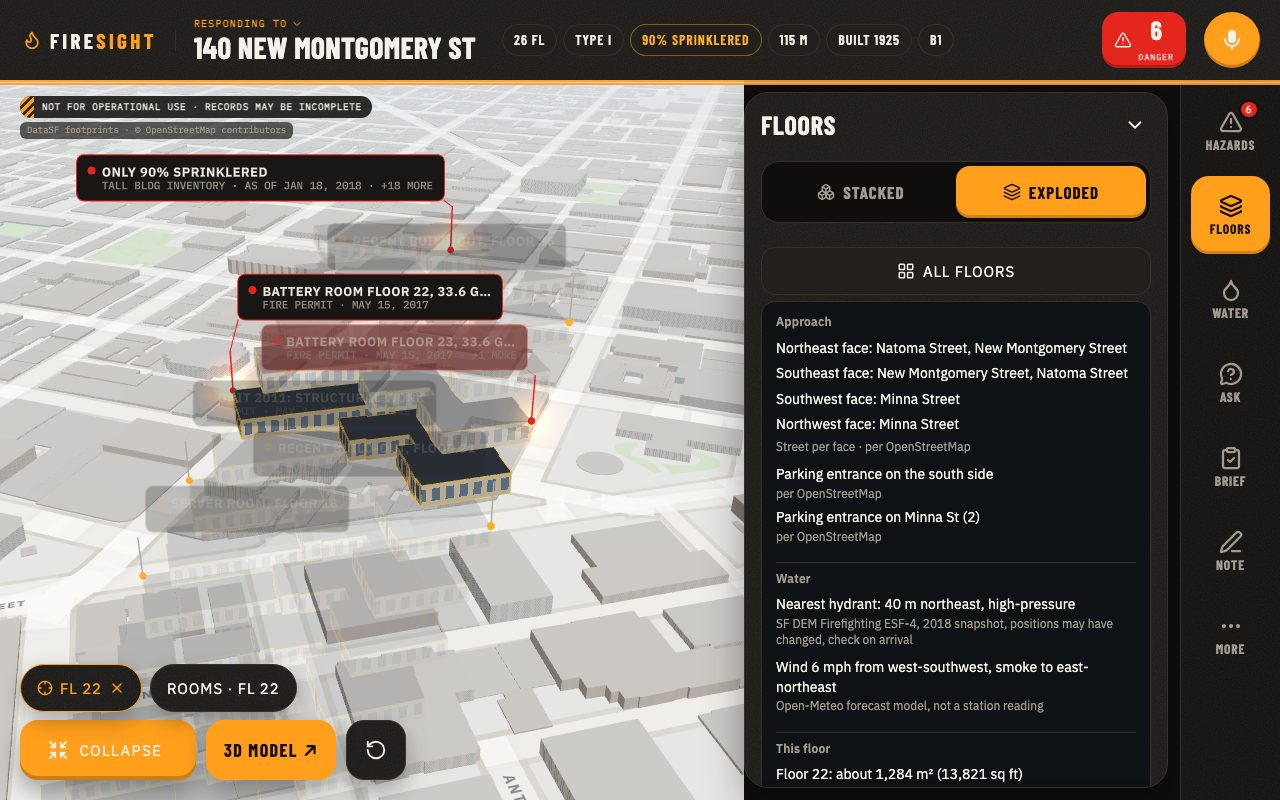
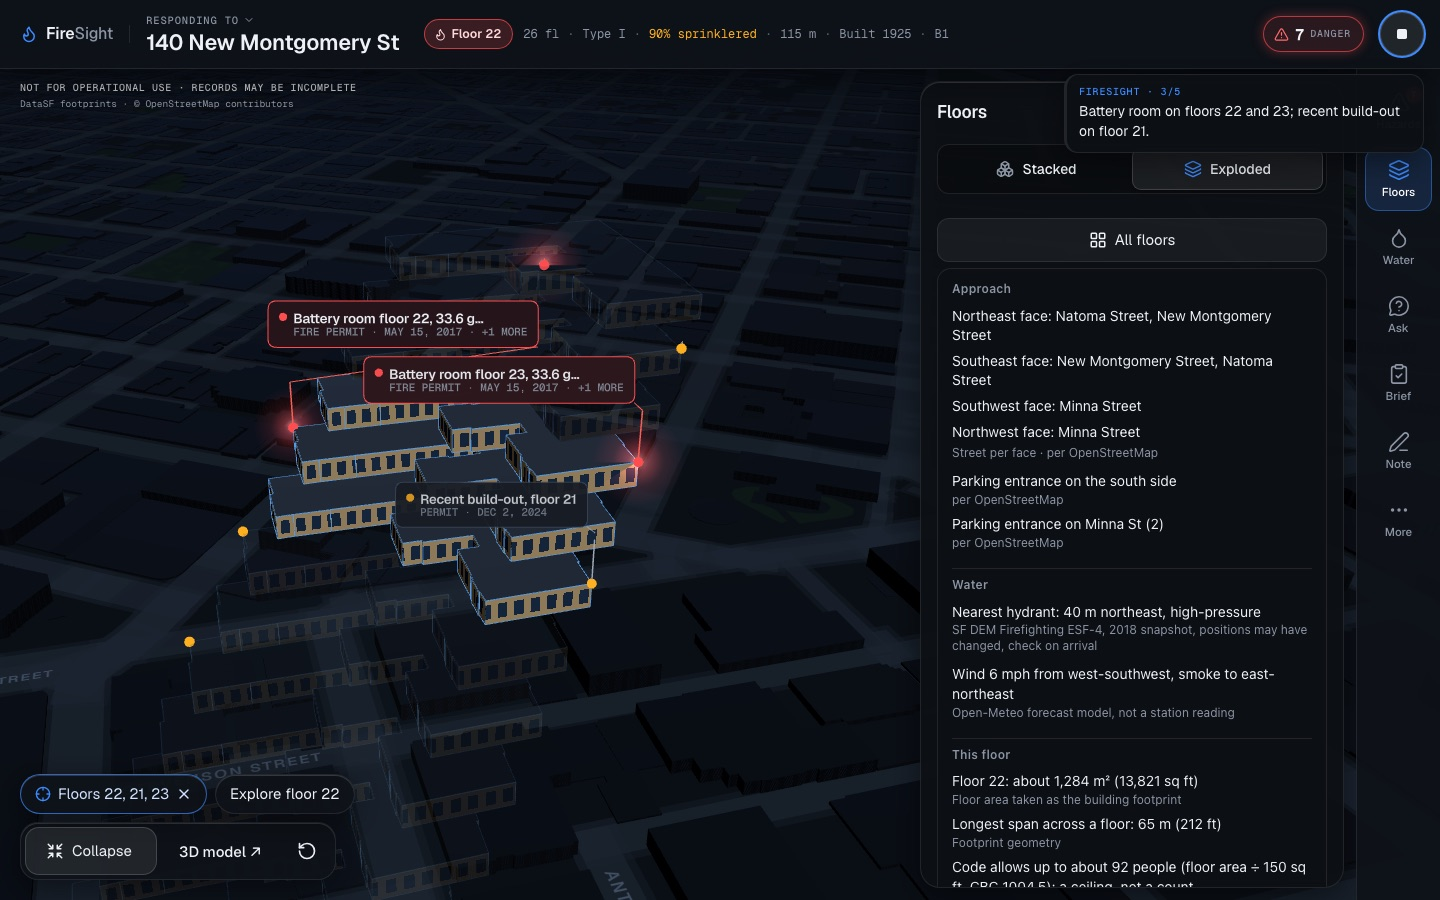
README: current UI, floor cutaway, tablet and phone AR, rule-based brief, team roles

diff --git a/README.md b/README.md
@@ -1,6 +1,9 @@
-# FireSight
+<h1 align="center">FireSight</h1>
 
-**An arrival brief for the fire officer on a responding engine, built only from cited San Francisco public records.**
+<p align="center"><b>Incident intelligence for first responders.</b><br>
+An arrival brief for the fire officer on a responding engine, built only from cited San Francisco public records.</p>
+
+<p align="center"><a href="https://firesight-ten.vercel.app"><b>Try it</b></a> · <a href="#what-the-officer-gets">What it does</a> · <a href="#how-it-works">How it works</a> · <a href="#trust-and-safety">Trust and safety</a></p>
 
 From a dispatch line, typed or spoken, FireSight finds the building, opens the 3D tower at the fire floor, and tells the officer where the people are, what is on that floor, what to bring and check, how to reach the water, and what to verify on arrival. Every line cites its record.
 
@@ -9,9 +12,9 @@ From a dispatch line, typed or spoken, FireSight finds the building, opens the 3
 **Demo video:** _link coming_
 <!-- VIDEO: replace with YouTube/Loom link + thumbnail docs/img/video-thumb.jpg -->
 
-![FireSight on a laptop: 140 New Montgomery St exploded at floor 22, with the floor panel showing the street on each face, entrances, the nearest hydrant and the wind](docs/img/hero.jpg)
+![FireSight on a laptop: 140 New Montgomery St exploded at floor 22 while the spoken brief plays, with the floor panel showing the street on each face, entrances, the nearest hydrant and the wind](docs/img/hero.jpg)
 
-> **Not for operational use.** FireSight is an independent prototype built by a team of four in one day at a San Francisco hackathon. It is not affiliated with, endorsed by or reviewed by SFFD or any public agency. The dispatch line in the demo is simulated.
+> **Not affiliated with SFFD. Not for operational use.** FireSight is an independent prototype built by a team of four in one day at a San Francisco hackathon. It is not affiliated with, endorsed by or reviewed by SFFD or any public agency. The dispatch line in the demo is simulated.
 
 Built at super{set} SF, Oct 22 2026, for Track 1: Hacking with Public Data APIs.
 
@@ -37,17 +40,15 @@ Dispatch in: "Structure fire, 140 New Montgomery St, smoke reported 22nd floor".
 4. **Water and access.** The street on each face, entrances from OpenStreetMap, the nearest hydrants with distance and direction, and the wind forecast with where the smoke goes.
 5. **Verify on arrival.** Stairs, standpipe and roof access. No public record has them, so FireSight lists them as checks and never draws them.
 
-<!-- IMG 2: arrival brief beside the floor panel for floor 22. Save as docs/img/brief.jpg, then replace this comment with: ![Arrival brief and floor panel](docs/img/brief.jpg) -->
+**The fire floor, opened up.** One tap on "Explore floor 22" hides every other floor and opens a cutaway of the fire floor: the recorded footprint, the reported incident card ("Fire / smoke reported · floor 22, exact position unknown"), and 3D markers for what the records put on that floor, such as the 33.6-gallon battery room and the cafeteria with food prep. Positions are marked unverified, and walls, cores and stairs are never drawn, because none are on public record.
+
+![Floor 22 cutaway: the reported incident card, a battery room and a cafeteria marked as recorded uses with unverified positions, beside the approach, water and wind panel](docs/img/cutaway.jpg)
 
 **Voice.** The brief is spoken in a natural voice (ElevenLabs), and each sentence lights the floors it names. A spoken update such as "people trapped on floor 23" becomes a dispatch report: floor 23 lights up and FireSight reads what the records say about it. Hands-free commands go through TypeSafe Jev: what the officer said becomes one typed decision (dispatch, report, question, explode, collapse, brief, stop) with a confidence score in about 0.1 to 0.5 s. Below 0.5 FireSight asks "Say again?" instead of guessing, and without a Jev key it falls back to keyword rules. The caption shows the decision ("JEV · report · 0.98").
 
-<!-- IMG 3: voice caption on screen while the brief is spoken, with the named floor lit. Save as docs/img/voice.jpg, then replace this comment with: ![Spoken brief with live caption](docs/img/voice.jpg) -->
+**Tablet in the rig, phone in the hand.** On the rig's tablet the officer gets the full 3D view. On an Android phone, "View in AR" stands the tower on any table: pick a floor from the rail to pull it out of the building, and open the inside of that floor with the six labels that matter. On a laptop the same model opens in 3D.
 
-**AR.** "View in AR" on Android puts the tower on the table. Pick a floor to see a glass info card, explode or assemble the floors, and open a schematic of the inside of floor 22 (no stairs drawn, because none are on record).
-
-<!-- IMG 4: AR tower on a table (capture on an Android phone). Save as docs/img/ar.jpg, then replace this comment with: ![FireSight tower in AR on a table](docs/img/ar.jpg) -->
-
-**Ask, approve, strike.** Claude Opus 5.5 answers questions and drafts the brief from the cited records only. The officer approves or strikes each line before it goes to the crew, and each struck line becomes a test case.
+**No AI in the brief.** The arrival brief is assembled from the records by rules, so it is the same every time and works without a model. Claude Opus 5.5 is used only for **Ask**: free questions answered from the cited records, with a validator that drops any line without a citation.
 
 **Rules and provenance.** A compliance strip checks the rules that apply to the building (California Fire Code 1205 and 1207, SFFD's high-rise annual inspection, and a "maps to NFPA 1660" pre-plan coverage check). Every pin opens its source record.
 
@@ -138,7 +139,7 @@ Every fact carries one of three labels:
 | **CONFLICT** | Records disagree. FireSight shows both. |
 
 - **Validator.** Any model line without a valid citation is dropped before the officer sees it. In the last saved eval ([`web/public/eval/last-run.json`](web/public/eval/last-run.json)), Claude Opus 5.5 wrote 48 brief lines across the four buildings (37 VERIFIED, 7 UNVERIFIABLE, 4 CONFLICT) and the validator dropped 0. It also answered 20 questions, with 0 dropped.
-- **A human decides.** The officer approves or strikes every line. Struck lines become test cases.
+- **A human decides.** Everything is a consideration for the officer, never an instruction. Model answers in Ask are checked against their citations before they are shown.
 - **Considerations, not orders.** The brief never tells a crew what to do.
 - **No names.** Tenant and permit-holder names are stripped from permit text by an allowlist, and contact fields in city map layers are dropped. Occupants show by type only. Incidents show counts and types only.
 - **Read-only to agents.** The MCP server cannot write or change anything.
@@ -170,10 +171,10 @@ API routes: `POST /api/brief`, `POST /api/ask`, `POST /api/strike`, `POST /api/c
 
 ## Team
 
-- Devaj ([@Devaj6190](https://github.com/Devaj6190)): 3D and deploy
-- Rishit: data
-- Rohan: shell and pitch
-- Vidyut: AI, compliance and MCP
+- Devaj ([@Devaj6190](https://github.com/Devaj6190)): app shell, 3D city and deploy
+- Rishit: floor view, floor cutaway and the data pipeline
+- Rohan: demo and pitch
+- Vidyut: voice (ElevenLabs, Jev), AR, AI and MCP
 
 Built at super{set} SF, Oct 22 2026.
 
